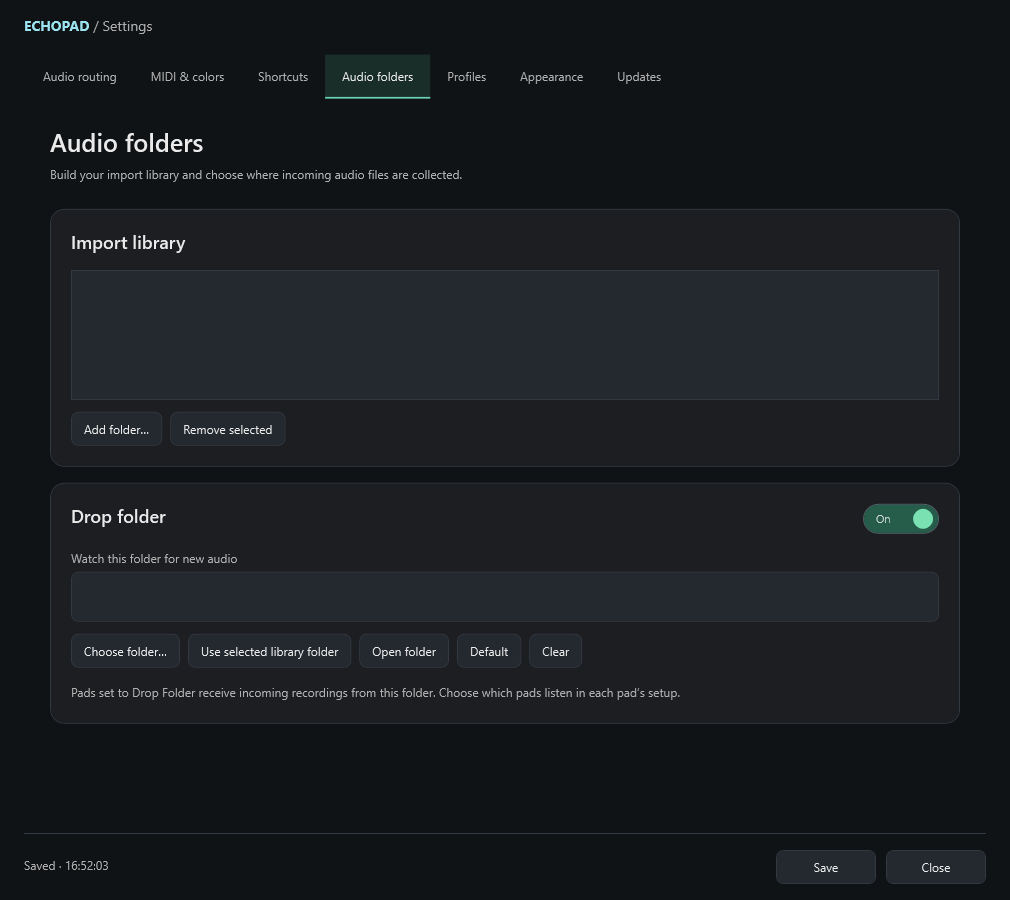
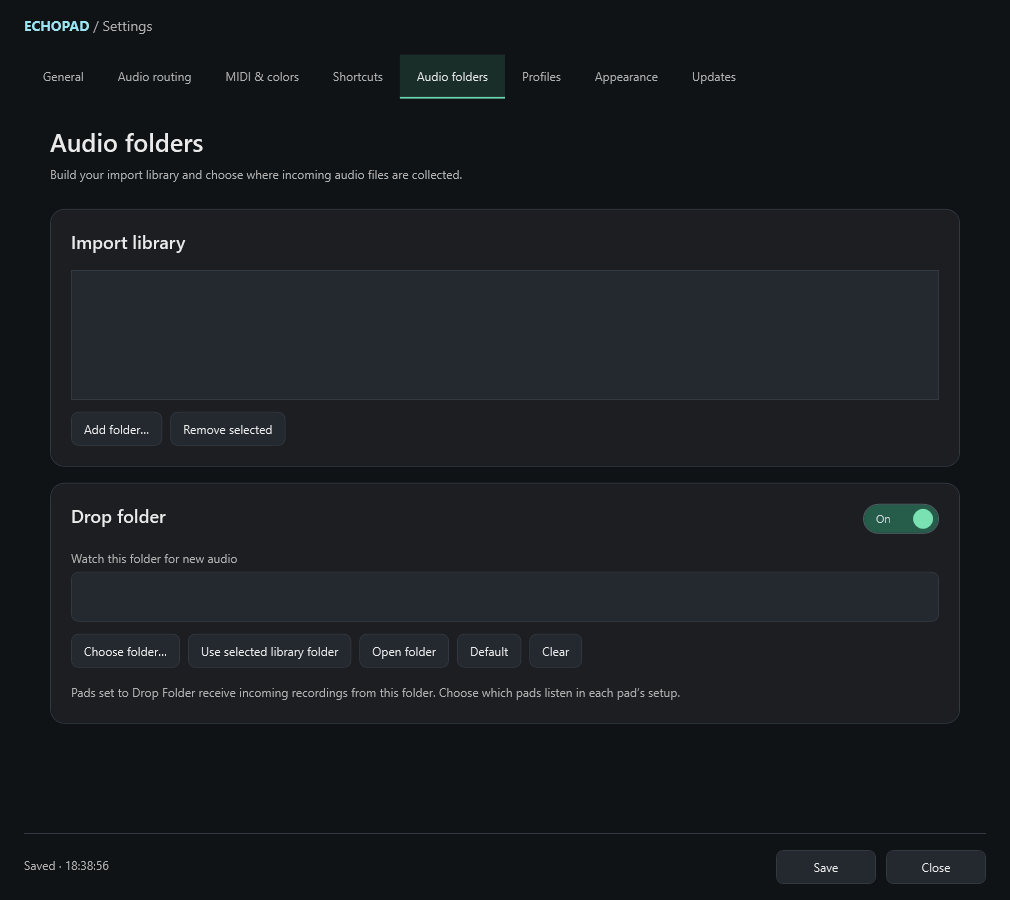
docs: show startup and tray settings on default branch [skip ci]

Changed region(s): [[0.0307, 0.0622, 0.6446, 0.1244], [0.7059, 0.0622, 0.7366, 0.0933]]

diff --git a/docs/RELEASE-NOTES.md b/docs/RELEASE-NOTES.md
@@ -1,8 +1,17 @@
 # Unsigned Dev Release
 
-Version: **1.1.0-dev.20260929.2** · Windows x64 · Prerelease
+Version: **1.1.0-dev.20260929.3** · Windows x64 · Prerelease
 
 ## Changes
+
+- New **General** settings tab with independent Start with Windows, Open to tray, Close to tray and Minimize to tray switches. All default off.
+- Tray menu with Open EchoPad, Settings and Exit EchoPad; double-click restores the window. Repeated manual launches open the existing instance.
+- Hidden startup initializes audio, MIDI and rolling capture. Hiding the window no longer tears down those services. Actual exit waits for pending capture saves, without waiting for playing clips to finish. Updates and Windows shutdown bypass close-to-tray.
+- Startup is registered for the current Windows user, with a quoted executable path that refreshes after relocation. Turning the option off removes the entry; uninstall removes a matching entry for the uninstalling user.
+- Dark installer follows Throttle, VBAN Stream and VBAN Plug: larger modern wizard, EchoPad portrait waveform artwork, ElkaSoft logo and updated welcome/finish text. Existing application appearance controls remain unchanged.
+- Updated settings illustrations include the General tab. Tray construction preserves the host's async context.
+
+Also included from the preceding development builds:
 
 - Installer now defaults to `C:\Program Files\ElkaSoft\EchoPad`, including upgrades from the old installation folder.
 - Writable data now lives in `%LOCALAPPDATA%\ElkaSoft\EchoPad`. First launch copies older settings, profiles, pad images and captures, rewrites imported media references, and keeps originals. Existing destination settings win; conflicting media are retained under distinct names. Failed migrations report an error and can be retried.
@@ -12,7 +21,7 @@ Version: **1.1.0-dev.20260929.2** · Windows x64 · Prerelease
 
 The following interface changes from the previous development build are also included:
 
-- Seven settings tabs: Audio routing, MIDI & colors, Shortcuts, Audio folders, Profiles, Appearance and Updates.
+- Eight settings tabs: General, Audio routing, MIDI & colors, Shortcuts, Audio folders, Profiles, Appearance and Updates.
 - Local/VBAN cards with on/off controls and separate vertical input meters.
 - Clearer whole-pad loaded and playing colors, brighter rings and centered names.
 - Rounded global sliders for loaded fill, playing fill and outline strength, plus hue wheels and palette pickers.
@@ -29,8 +38,9 @@ The normal 15-second capture and playback workflow remains in place. VST endpoin
 
 ## Validation
 
-The Windows Release regression harness passes **111 checks**, including:
+The Windows Release regression harness passes **141 checks**, including:
 
+- Startup registration and relocation, defaults and persistence, profile independence, failed registration preserving saved settings, single-instance activation, native icon loading, tray restore/minimize/close/explicit exit, capture-save waits and update shutdown bypass.
 - 17 migration checks: legacy layouts, source priority, named/active profiles, recordings, both PNG states, Unicode, trim/routing/bindings, preservation of originals and newer destination data, external-path preservation, collision handling, one-time behavior, and failure/retry safety.
 - 15-second buffer ordering and PCM WAV export.
 - Real asynchronous waveform loading in an offscreen WPF host.
@@ -42,7 +52,9 @@ The Windows Release regression harness passes **111 checks**, including:
 - Installer asset selection, URL/size/hash validation, progress, successful handoff ordering, corrupted/truncated/oversized downloads, cancellation, foreign redirects, HTTP errors, save failure and canceled/failed installer launches.
 - Rendering every settings/pad tab, compact layout checks and no WPF binding errors.
 
-The public GitHub release endpoint was also checked successfully. UI examples use generated artwork and simulated devices/meter levels; the trim illustration is a supplied screenshot from a running EchoPad session. Physical audio interfaces, real MIDI controllers and a remote VBAN receiver still require a user audition; the automated tests do not claim that hardware coverage.
+UI examples use generated pad artwork and simulated devices/meter levels; the trim illustration is a supplied screenshot from a running EchoPad session. The native tray resource loads in a smoke check, and window lifecycle tests use an injected tray backend. Startup tests use a fake registry store. A real Windows sign-in and live tray interaction are not part of the automated checks. Physical audio interfaces, real MIDI controllers and a remote VBAN receiver still require a user audition.
+
+Both the installer and a non-installing branding preview compile. Live wizard visual inspection was blocked by the desktop tool's Windows sandbox startup error; the shipped portrait artwork and rendered settings pages were visually reviewed.
 
 ## Downloads and signing
 

diff --git a/README.md b/README.md
@@ -8,15 +8,19 @@ EchoPad is a Windows audio pad sampler for live capture, sound clips, streaming 
 
 ## Unsigned Dev Release
 
-Version **1.1.0-dev.20260929.2** adds the ElkaSoft install/data folders, automatic migration of older saves and media, installer downloads inside Settings, and matching horizontal/vertical waveform artwork. It includes the tabbed settings, clearer pad states, profile selection and naming, improved hotkey/CC handling, PNG pad artwork and appearance controls introduced in the previous development build. This is the normal local/VBAN application; the separate VST edition is future work.
+Version **1.1.0-dev.20260929.3** adds Windows startup and tray controls in a new General tab, plus a dark installer using EchoPad's portrait waveform artwork and the ElkaSoft family layout. It includes automatic migration of older saves, installer downloads inside Settings, clearer pad states, profile names, improved hotkey/CC handling and PNG pad artwork. This is the normal local/VBAN application; the separate VST edition is future work.
 
-Download the [Unsigned Dev Release](https://github.com/torment78/Echopad/releases/tag/v1.1.0-dev.20260929.2). Choose the Windows x64 installer or extract the complete self-contained ZIP and run `Echopad.App.exe`. This development release is unsigned and marked as a prerelease.
+Download the [Unsigned Dev Release](https://github.com/torment78/Echopad/releases/tag/v1.1.0-dev.20260929.3). Choose the Windows x64 installer or extract the complete self-contained ZIP and run `Echopad.App.exe`. This development release is unsigned and marked as a prerelease.
 
 ## New menus
 
 ![Settings and appearance controls](docs/images/current/settings-Appearance-full.png)
 
-Settings now has **Audio routing**, **MIDI & colors**, **Shortcuts**, **Audio folders**, **Profiles**, **Appearance**, and **Updates** tabs. Loaded pads show a stronger color across the whole surface. Rounded sliders independently adjust loaded fill, playing fill and outline intensity.
+Settings now has **General**, **Audio routing**, **MIDI & colors**, **Shortcuts**, **Audio folders**, **Profiles**, **Appearance**, and **Updates** tabs. Loaded pads show a stronger color across the whole surface. Rounded sliders independently adjust loaded fill, playing fill and outline intensity.
+
+![Windows startup and tray settings](docs/images/current/settings-General.png)
+
+**General** offers Start with Windows, Open to tray, Close to tray and Minimize to tray. All four start off. Audio, MIDI and rolling capture keep running while the window is hidden. Double-click the tray icon to restore EchoPad; its menu offers Open, Settings and Exit. Launching the shortcut again restores the existing instance.
 
 ![Pad graphics editor](docs/images/current/pad-Graphics.png)
 
@@ -27,7 +31,7 @@ Each pad can have a stopped PNG and a playing PNG, with separate opacity and **F
 - [Illustrated setup and menu guide](docs/SETUP.md): every new tab, profile gestures, copying pads, PNGs and updates.
 - [Application overview](docs/README.md): capture, playback, routing and saved data.
 - [Development release notes and validation](docs/RELEASE-NOTES.md).
-- [Regression checks for this release](https://github.com/torment78/Echopad/blob/v1.1.0-dev.20260929.2/Echopad.Tests/README.md).
+- [Regression checks](https://github.com/torment78/Echopad/blob/v1.1.0-dev.20260929.3/Echopad.Tests/README.md).
 - [Install locations and migration](docs/MIGRATION.md).
 - [Promotional graphics](graphics/README.md): portrait and landscape PNGs, plus a 373 KB horizontal preview.
 
@@ -37,15 +41,15 @@ The screenshots and guides describe the released development build. To build tha
 
 ```powershell
 git fetch origin --tags
-git switch --detach v1.1.0-dev.20260929.2
+git switch --detach v1.1.0-dev.20260929.3
 dotnet build Echopad.slnx -c Release
 dotnet run --project Echopad.Tests -c Release
 ```
 
-Build a tested, self-contained unsigned package with Inno Setup 6 installed:
+Build a tested, self-contained unsigned package with Inno Setup 6.6 or newer installed:
 
 ```powershell
-./scripts/Build-UnsignedRelease.ps1 -Version 1.1.0-dev.20260929.2
+./scripts/Build-UnsignedRelease.ps1 -Version 1.1.0-dev.20260929.3
 ```
 
 Use `-SkipInstaller` for a ZIP-only package. Output is written under `artifacts/release/<version>`, with SHA-256 checksums. The script does not publish anything to GitHub.

diff --git a/docs/SETUP.md b/docs/SETUP.md
@@ -1,6 +1,27 @@
 # EchoPad setup and menu guide
 
-This guide covers **1.1.0-dev.20260929.2 — Unsigned Dev Release**. Menu examples are renders of the real WPF controls using test settings; device names and meter levels are simulated. The trim section uses a screenshot supplied from a running EchoPad session. The orange update image demonstrates the available-update state.
+This guide covers **1.1.0-dev.20260929.3 — Unsigned Dev Release**. Menu examples are renders of the real WPF controls using test settings; device names and meter levels are simulated. The trim section uses a screenshot supplied from a running EchoPad session. The orange update image demonstrates the available-update state.
+
+## Windows startup and tray
+
+![General startup and tray settings](images/current/settings-General.png)
+
+Open **Settings → General**. These options are independent and default to off, including when upgrading an older installation:
+
+| Option | Behavior |
+| --- | --- |
+| Start with Windows | Starts EchoPad when this Windows user signs in. |
+| Open to tray | Opens EchoPad in the notification area without showing its main window. |
+| Close to tray | The main window's X or Alt+F4 hides it and keeps the application running. |
+| Minimize to tray | Minimizing hides the taskbar button and keeps the tray icon available. |
+
+Audio, MIDI, rolling capture and the drop-folder watcher remain active while hidden. Keyboard pad shortcuts still require EchoPad to be active. Double-click its tray icon to show the window, or right-click for **Open EchoPad**, **Settings** and **Exit EchoPad**. Windows may place the icon under its notification-area arrow. Launching EchoPad again restores the existing instance; an automatic Windows startup launch does not force an already running window to open.
+
+**Exit EchoPad** quits even with Close to tray enabled. A pending capture is allowed to finish saving; playing audio does not delay exit. The settings window's own **Close** button only saves and closes settings. Installer updates and Windows shutdown also exit the application.
+
+Start with Windows registers the current executable for this user, so install or extract EchoPad into its intended permanent folder before enabling it. Launching after an upgrade refreshes that path. Disable the option to remove EchoPad's startup entry. Open to tray applies to both manual and automatic first launches; `Echopad.App.exe --show` overrides it for that launch.
+
+The installer uses the dark ElkaSoft layout with EchoPad's portrait waveform image. The application retains its existing Appearance controls; there is no new application theme switch.
 
 ## Start with audio routing
 

diff --git a/docs/README.md b/docs/README.md
@@ -12,7 +12,7 @@ Run mode is for capture and playback. Edit mode provides trimming, pad setup and
 
 ## This development release
 
-The interface now has seven global settings tabs and three pad settings tabs. It includes profile names/search, a Shift-click profile picker, improved modifier shortcuts and CC handling, stronger loaded/playing colors, global hue and intensity controls, stopped/playing PNG artwork with Fit/Crop and opacity, and a manual GitHub update checker.
+The interface now has eight global settings tabs and three pad settings tabs. General adds Windows startup, open/close/minimize to tray and an Open/Settings/Exit tray menu. It also includes profile names/search, a Shift-click profile picker, improved modifier shortcuts and CC handling, stronger loaded/playing colors, global hue and intensity controls, stopped/playing PNG artwork with Fit/Crop and opacity, and a GitHub update checker with verified installer downloads.
 
 ![Pad graphics editor](images/current/pad-Graphics.png)
 
